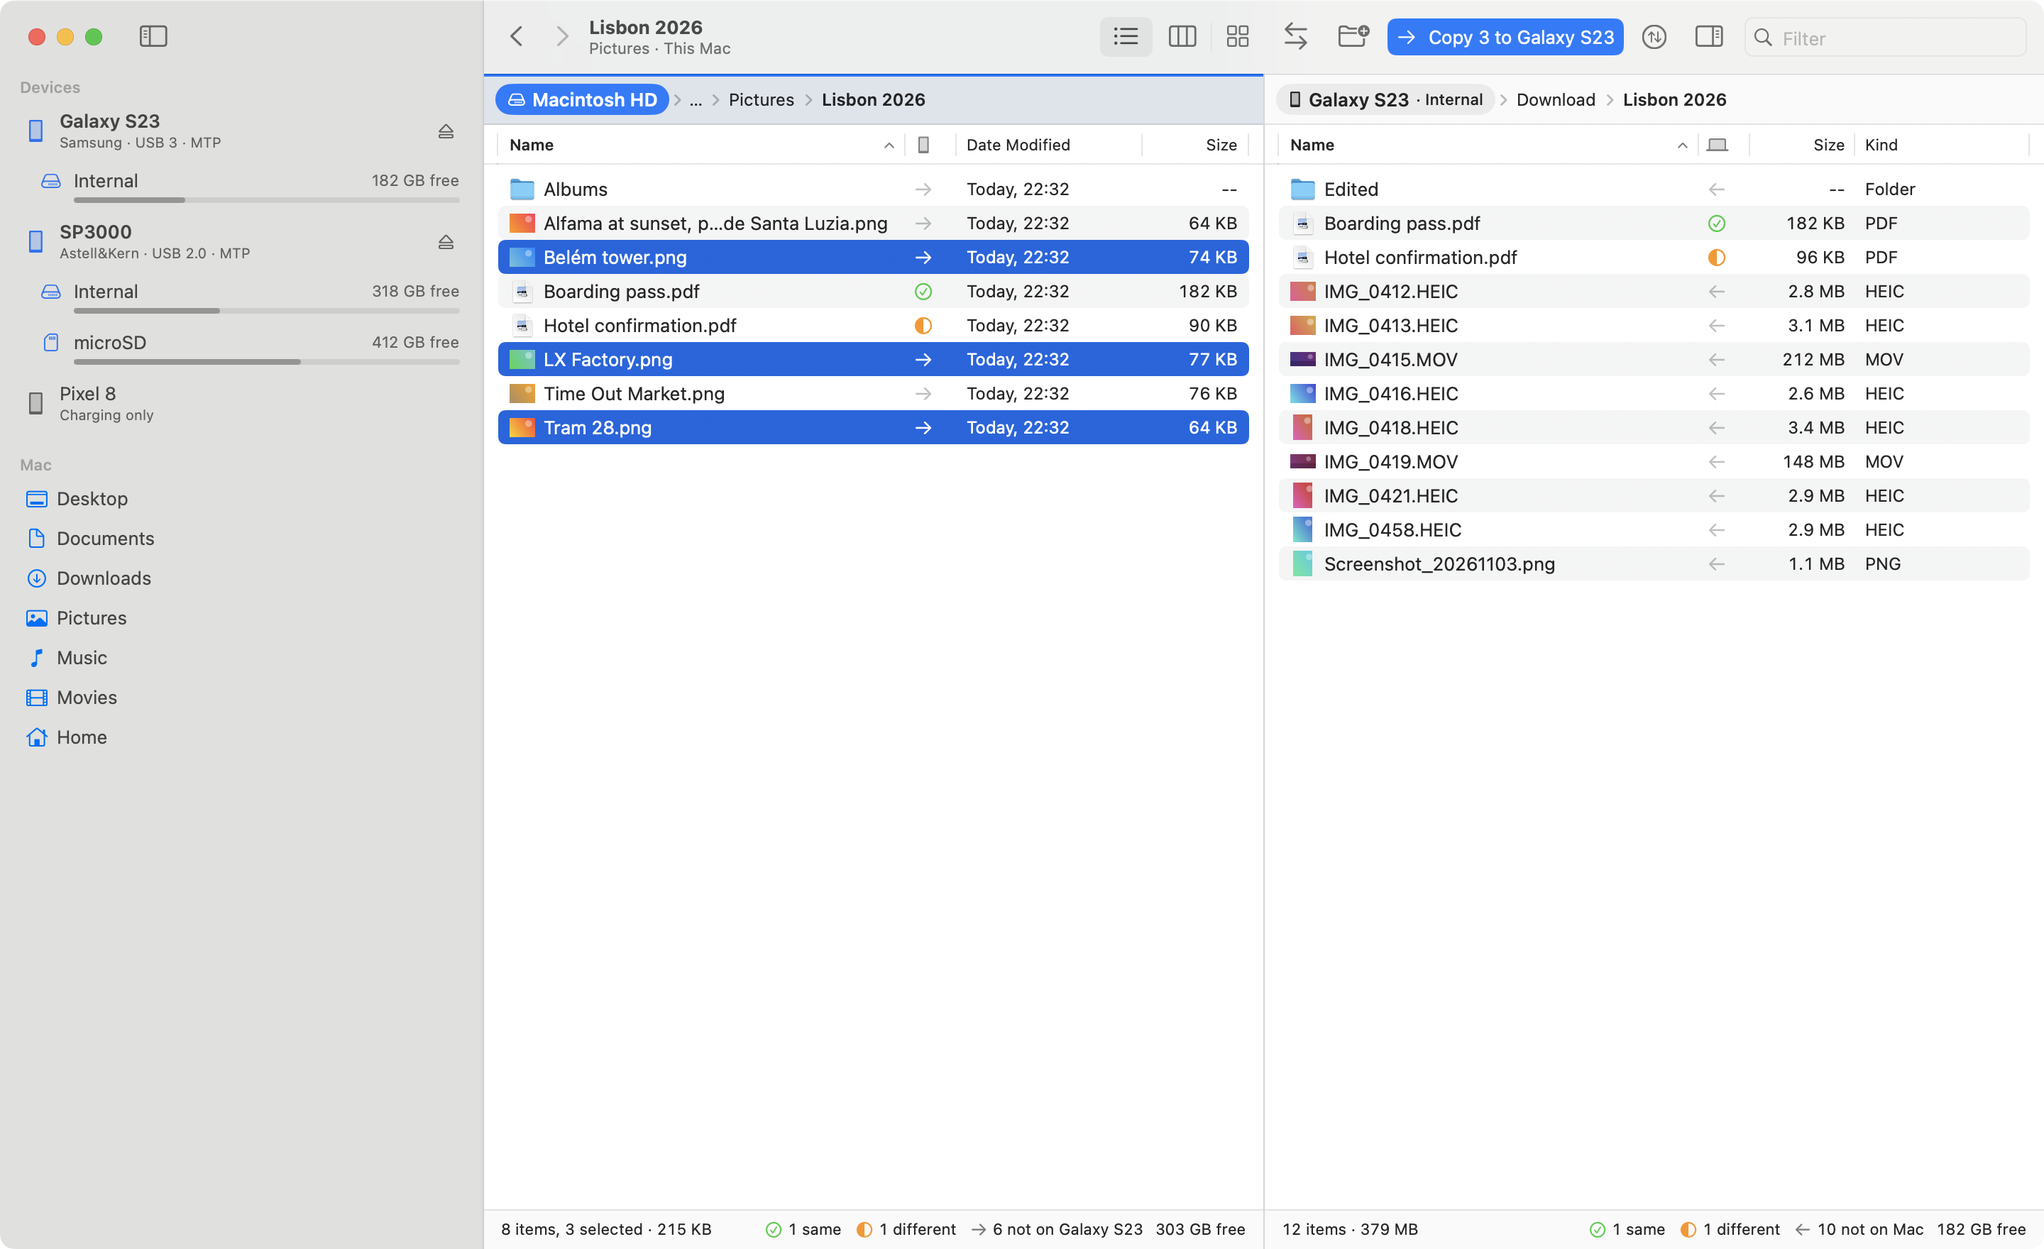
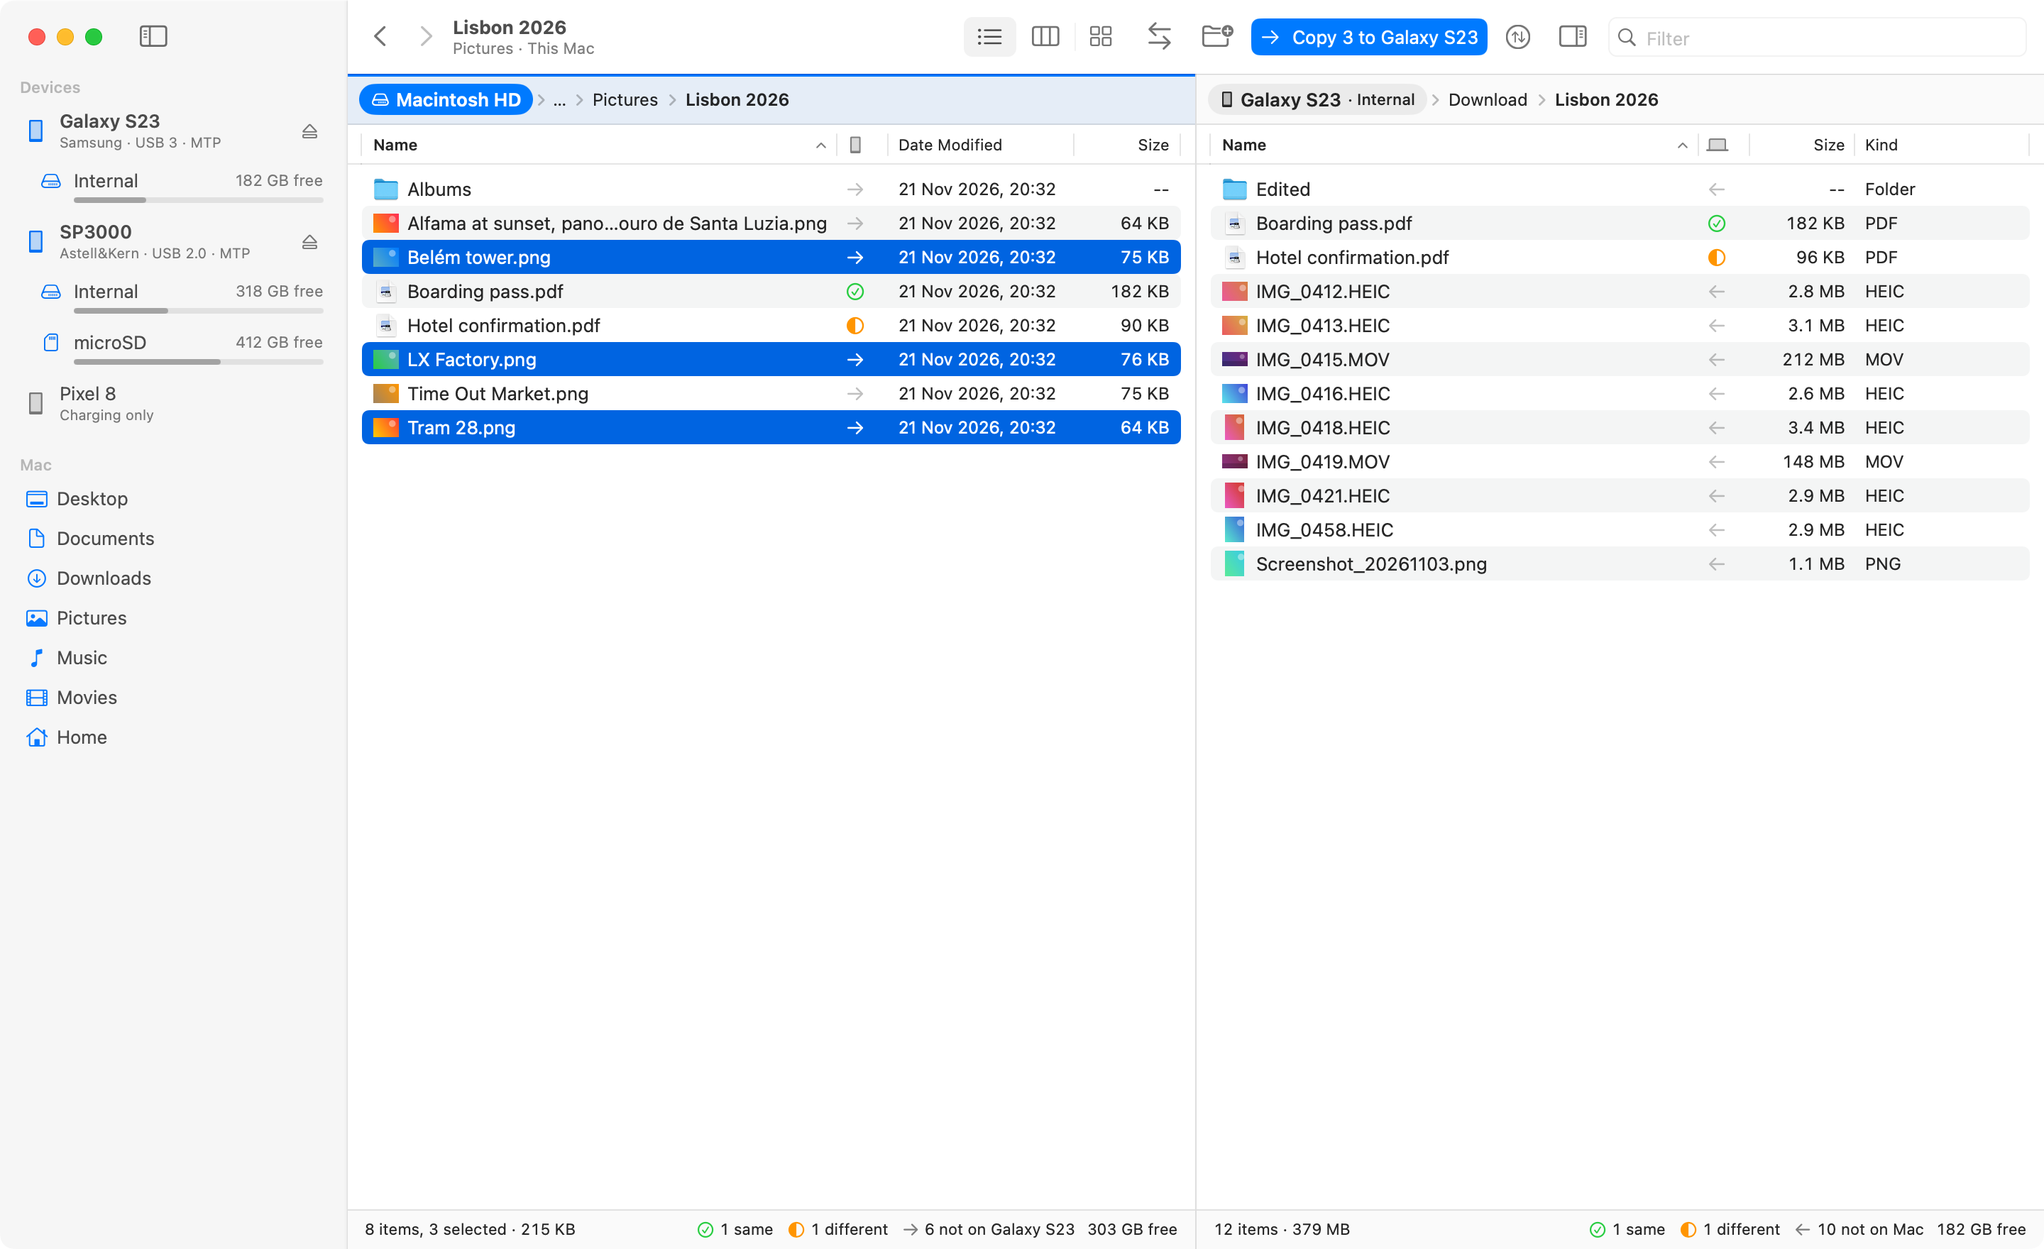
Keep the README screenshots current: CI renders them and commits the ones that changed
The Screenshots workflow renders the app's screens on a 2x virtual display after app changes land on main (or by hand) and commits the PNGs whose pixels changed, from a separate job that never runs the build. The screens are pinned (locale, time zone, demo clock, free space, a transfer on simulated time, sRGB), so a run on unchanged code commits nothing. Reviewed and tested in #5.

Changed region(s): [[0.125, 0.0, 0.8438, 1.0]]

diff --git a/apps/macos/ReMTP/Support/DebugSnapshots.swift b/apps/macos/ReMTP/Support/DebugSnapshots.swift
@@ -460,6 +460,14 @@ enum DebugSnapshots {
         let folder = URL(fileURLWithPath: macPath, isDirectory: true).standardizedFileURL
         try? FileManager.default.createDirectory(at: folder, withIntermediateDirectories: true)
         writeViewSamples(into: folder)
+        // The same text on every run: sample files dated by the demo's clock (pinned by design/app-shots.sh)
+        // and a fixed free space on the Mac.
+        let sampleDate = Date(timeIntervalSince1970: TimeInterval(DemoLibrary.now - 7_200))
+        for name in (try? FileManager.default.contentsOfDirectory(atPath: folder.path)) ?? [] {
+            try? FileManager.default.setAttributes([.modificationDate: sampleDate],
+                                                   ofItemAtPath: folder.appendingPathComponent(name).path)
+        }
+        LocalFileSystem.pinnedAvailableCapacity = 303_000_000_000
         let galaxy = DemoDeviceService.galaxyID, sp3000 = DemoDeviceService.sp3000ID
         let storage: UInt32 = 0x0001_0001
         func device(_ id: String, _ path: String) -> PaneLocation {
@@ -477,7 +485,18 @@ enum DebugSnapshots {
                 writeComposited(window, to: out.appendingPathComponent("\(name)-\(suffix).png"))
             }
         }
+        // A 1× screen, like a CI runner's 1024 × 768, can't take these shots. The Screenshots workflow adds a 2×
+        // virtual display; the window goes to the sharpest screen.
+        if let sharpest = NSScreen.screens.max(by: { $0.backingScaleFactor < $1.backingScaleFactor }),
+           sharpest.backingScaleFactor > window.backingScaleFactor {
+            window.setFrameTopLeftPoint(NSPoint(x: sharpest.visibleFrame.minX + 24, y: sharpest.visibleFrame.maxY - 24))
+            await wait(0.5)
+        }
         window.setContentSize(NSSize(width: 1440, height: 880))
+        await wait(0.3)
+        let contentSize = window.contentRect(forFrameRect: window.frame).size
+        check("Screens are shot at 2× in a 1440 × 880 window (\(window.backingScaleFactor)×, \(contentSize))",
+              window.backingScaleFactor == 2 && contentSize == NSSize(width: 1440, height: 880))
 
         // Main window: the same trip on both sides, partly copied already; three pictures selected on the Mac.
         app.showStorage(deviceID: galaxy, storageID: storage)
@@ -540,12 +559,17 @@ enum DebugSnapshots {
         _ = await until(3) { app.devicePaneBrowsable && app.devicePane.items.count > 20 }
         app.activate(.device, focus: true)
         app.devicePane.selectAndReveal(Set(app.devicePane.items.map(\.name)), scrollTo: app.devicePane.items.first?.name)
+        // On simulated time, held at the same point every run, so the numbers and the graph repeat.
+        let hold: UInt64 = 470_000_000
+        DemoTransfer.screenshotHold = hold
         app.copySelection(from: app.devicePane)
-        _ = await until(5) { (app.transfers.running?.progress?.filesDone ?? 0) > 8 }
+        let held = await until(15) { (app.transfers.running?.progress?.bytesDone ?? 0) >= hold }
+        check("The copy holds after \(hold) bytes for the transfers screen", held)
         app.transfers.showDrawer()
         await wait(2.5)
         await screen("03-transfers")
         app.transfers.cancelAll()
+        DemoTransfer.screenshotHold = nil
         NSApp.appearance = nil
         await wait(0.5)
     }
@@ -565,7 +589,17 @@ enum DebugSnapshots {
             print("INFO no composited capture for \(url.lastPathComponent): drawn by the app instead (sidebar icons lose their tint)")
             return write(window, to: url)
         }
-        try? NSBitmapImageRep(cgImage: image).representation(using: .png, properties: [:])?.write(to: url)
+        try? NSBitmapImageRep(cgImage: sRGB(image)).representation(using: .png, properties: [:])?.write(to: url)
+    }
+
+    /// The image converted to sRGB, the profile browsers assume. The display's own profile would be embedded
+    /// otherwise, and a virtual display (CI's) gets a new one, dated, every run: new PNG bytes for the same pixels.
+    private static func sRGB(_ image: CGImage) -> CGImage {
+        guard let space = CGColorSpace(name: CGColorSpace.sRGB),
+              let context = CGContext(data: nil, width: image.width, height: image.height, bitsPerComponent: 8, bytesPerRow: 0,
+                                      space: space, bitmapInfo: CGImageAlphaInfo.premultipliedLast.rawValue) else { return image }
+        context.draw(image, in: CGRect(x: 0, y: 0, width: image.width, height: image.height))
+        return context.makeImage() ?? image
     }
 
     // MARK: Fixture folder

diff --git a/apps/macos/ReMTP/Service/DemoTransfer.swift b/apps/macos/ReMTP/Service/DemoTransfer.swift
@@ -71,7 +71,18 @@ final class DemoTransfer: TransferControl, @unchecked Sendable {
 
     // MARK: Run
 
-    private var now: TimeInterval { Date().timeIntervalSinceReferenceDate }
+    /// For the documentation screens: when set, copies run on simulated time (no sleeping, so speeds and the
+    /// graph don't depend on how busy the Mac is) and hold, still running, once this many bytes have moved,
+    /// until cancelled. Read when a copy is created.
+    nonisolated(unsafe) static var screenshotHold: UInt64?
+    private let hold = DemoTransfer.screenshotHold
+    private var simulatedTime: TimeInterval = 0
+
+    private var now: TimeInterval { hold == nil ? Date().timeIntervalSinceReferenceDate : simulatedTime }
+
+    private func pass(_ seconds: TimeInterval) {
+        if hold == nil { Thread.sleep(forTimeInterval: seconds) } else { simulatedTime += seconds }
+    }
 
     private var isCancelled: Bool { cond.lock(); defer { cond.unlock() }; return cancelled }
 
@@ -360,7 +371,7 @@ final class DemoTransfer: TransferControl, @unchecked Sendable {
         guard let device else { return false }
         // Idle between files: the next file is already read ahead, so this stays tiny.
         let idle = 0.002 + Double(DemoLibrary.hash(file.source) % 30) / 10_000
-        Thread.sleep(forTimeInterval: idle)
+        pass(idle)
         idleMs.append(idle * 1_000)
 
         let fileStart = now
@@ -374,14 +385,19 @@ final class DemoTransfer: TransferControl, @unchecked Sendable {
             let wobble = 1 + 0.025 * sin(t * 1.7) + 0.02 * sin(t * 0.43) + 0.01 * cos(t * 2.9)
             let rate = device.bytesPerSecond * wobble * (job.direction == .fromDevice ? 1.08 : 1)
             let chunk = min(file.size - currentDone, UInt64(rate * 0.05))
-            Thread.sleep(forTimeInterval: Double(chunk) / rate)
+            pass(Double(chunk) / rate)
             currentDone += chunk
             bytesDone += chunk
             emit(force: false)
+            if let hold, bytesDone >= hold {
+                emit(force: true)
+                while !isCancelled { Thread.sleep(forTimeInterval: 0.1) }
+                return false
+            }
         }
         // Device wait: last chunk handed over → the device answers (media scan on Android).
         let wait = (job.direction == .toDevice ? device.deviceWaitMs : 6) * (0.85 + Double(DemoLibrary.hash(name) % 30) / 100)
-        Thread.sleep(forTimeInterval: wait / 1_000)
+        pass(wait / 1_000)
         waitMs.append(wait)
 
         do {

diff --git a/apps/macos/ReMTP/Model/LocalFileSystem.swift b/apps/macos/ReMTP/Model/LocalFileSystem.swift
@@ -20,7 +20,15 @@ enum LocalFileSystem {
                         created: values?.creationDate, url: url, isHidden: values?.isHidden ?? false)
     }
 
+    #if DEBUG
+    /// Shown instead of the Mac's real free space by the documentation screens, where it would differ per run.
+    nonisolated(unsafe) static var pinnedAvailableCapacity: Int64?
+    #endif
+
     static func availableCapacity(_ url: URL) -> Int64? {
+        #if DEBUG
+        if let pinnedAvailableCapacity { return pinnedAvailableCapacity }
+        #endif
         let values = try? url.resourceValues(forKeys: [.volumeAvailableCapacityForImportantUsageKey, .volumeAvailableCapacityKey])
         if let important = values?.volumeAvailableCapacityForImportantUsage, important > 0 { return important }
         return values?.volumeAvailableCapacity.map(Int64.init)

diff --git a/apps/macos/ReMTP/Service/DemoLibrary.swift b/apps/macos/ReMTP/Service/DemoLibrary.swift
@@ -46,7 +46,10 @@ final class DemoNode {
 }
 
 enum DemoLibrary {
-    static let now = Int64(Date().timeIntervalSince1970)
+    /// The demo's "now": file dates and camera file names count back from it. `REMTP_DEMO_NOW` (seconds since
+    /// 1970) pins it, so the documentation screens (design/app-shots.sh) show the same files on every run.
+    static let now = ProcessInfo.processInfo.environment["REMTP_DEMO_NOW"].flatMap { Int64($0) }
+        ?? Int64(Date().timeIntervalSince1970)
 
     static let MB: UInt64 = 1_000_000
     static let GB: UInt64 = 1_000_000_000

diff --git a/scripts/ci/virtual-display.m b/scripts/ci/virtual-display.m
@@ -1,0 +1,112 @@
+// Adds a 2x ("Retina") virtual display for as long as it runs. GitHub's macOS runners have one 1024 x 768
+// screen at 1x, too small and too coarse for the README's screenshots (design/app-shots.sh). CI only; it uses
+// CoreGraphics' private CGVirtualDisplay classes, as DeskPad and BetterDisplay do, and is never part of the app.
+//
+//   clang -fobjc-arc -framework Foundation -framework CoreGraphics scripts/ci/virtual-display.m -o virtual-display
+//   ./virtual-display 1600 1000 &     # size in points; prints "ready ..." once the 2x mode is set
+#import <CoreGraphics/CoreGraphics.h>
+#import <Foundation/Foundation.h>
+#import <unistd.h>
+
+@interface CGVirtualDisplayDescriptor : NSObject
+@property(retain, nonatomic) NSString *name;
+@property(nonatomic) unsigned int maxPixelsWide;
+@property(nonatomic) unsigned int maxPixelsHigh;
+@property(nonatomic) CGSize sizeInMillimeters;
+@property(nonatomic) unsigned int productID;
+@property(nonatomic) unsigned int vendorID;
+@property(nonatomic) unsigned int serialNum;
+@property(copy, nonatomic) void (^terminationHandler)(id, id);
+- (void)setDispatchQueue:(dispatch_queue_t)queue;
+@end
+
+@interface CGVirtualDisplayMode : NSObject
+- (instancetype)initWithWidth:(NSUInteger)width height:(NSUInteger)height refreshRate:(double)refreshRate;
+@end
+
+@interface CGVirtualDisplaySettings : NSObject
+@property(retain, nonatomic) NSArray *modes;
+@property(nonatomic) unsigned int hiDPI;
+@end
+
+@interface CGVirtualDisplay : NSObject
+@property(readonly, nonatomic) CGDirectDisplayID displayID;
+- (instancetype)initWithDescriptor:(CGVirtualDisplayDescriptor *)descriptor;
+- (BOOL)applySettings:(CGVirtualDisplaySettings *)settings;
+@end
+
+static void fail(NSString *message) {
+    fprintf(stderr, "virtual-display: %s\n", message.UTF8String);
+    exit(1);
+}
+
+int main(int argc, const char *argv[]) {
+    @autoreleasepool {
+        if (argc != 3) fail(@"usage: virtual-display <width> <height> (points)");
+        size_t width = (size_t)atoi(argv[1]), height = (size_t)atoi(argv[2]);
+        if (width < 640 || height < 480) fail(@"the size is in points and at least 640 x 480");
+        if (!NSClassFromString(@"CGVirtualDisplay")) fail(@"CGVirtualDisplay isn't available on this macOS");
+
+        CGVirtualDisplayDescriptor *descriptor = [[NSClassFromString(@"CGVirtualDisplayDescriptor") alloc] init];
+        [descriptor setDispatchQueue:dispatch_queue_create("virtual-display", DISPATCH_QUEUE_SERIAL)];
+        descriptor.name = @"Screenshots";
+        descriptor.maxPixelsWide = (unsigned int)(width * 2);
+        descriptor.maxPixelsHigh = (unsigned int)(height * 2);
+        descriptor.sizeInMillimeters = CGSizeMake(width * 0.23, height * 0.23);  // about 220 pixels per inch
+        descriptor.vendorID = 0xEEEE;
+        descriptor.productID = 0x1234;
+        descriptor.serialNum = 1;
+        descriptor.terminationHandler = ^(__unused id a, __unused id b) { fail(@"the display went away"); };
+
+        CGVirtualDisplay *display = [[NSClassFromString(@"CGVirtualDisplay") alloc] initWithDescriptor:descriptor];
+        if (!display || display.displayID == 0) fail(@"couldn't create the display");
+
+        // Offered both in pixels and in points: either way the system lists a width x height mode at 2x.
+        CGVirtualDisplaySettings *settings = [[NSClassFromString(@"CGVirtualDisplaySettings") alloc] init];
+        settings.hiDPI = 1;
+        Class modeClass = NSClassFromString(@"CGVirtualDisplayMode");
+        settings.modes = @[
+            [[modeClass alloc] initWithWidth:width * 2 height:height * 2 refreshRate:60],
+            [[modeClass alloc] initWithWidth:width height:height refreshRate:60],
+        ];
+        if (![display applySettings:settings]) fail(@"couldn't apply the display's modes");
+
+        CGDirectDisplayID displayID = display.displayID;
+        NSDictionary *options = @{(__bridge NSString *)kCGDisplayShowDuplicateLowResolutionModes: @YES};
+        CGDisplayModeRef wanted = NULL;
+        for (int attempt = 0; attempt < 50 && !wanted; attempt++) {
+            usleep(100000);
+            CFArrayRef modes = CGDisplayCopyAllDisplayModes(displayID, (__bridge CFDictionaryRef)options);
+            for (CFIndex i = 0; modes && i < CFArrayGetCount(modes); i++) {
+                CGDisplayModeRef mode = (CGDisplayModeRef)CFArrayGetValueAtIndex(modes, i);
+                if (attempt == 0) {
+                    printf("mode %zu x %zu (%zu x %zu pixels)\n", CGDisplayModeGetWidth(mode), CGDisplayModeGetHeight(mode),
+                           CGDisplayModeGetPixelWidth(mode), CGDisplayModeGetPixelHeight(mode));
+                }
+                if (CGDisplayModeGetWidth(mode) == width && CGDisplayModeGetHeight(mode) == height
+                    && CGDisplayModeGetPixelWidth(mode) == width * 2) {
+                    wanted = CGDisplayModeRetain(mode);
+                    break;
+                }
+            }
+            if (modes) CFRelease(modes);
+        }
+        if (!wanted) fail([NSString stringWithFormat:@"no %zu x %zu mode at 2x", width, height]);
+
+        CGDisplayConfigRef config;
+        if (CGBeginDisplayConfiguration(&config) != kCGErrorSuccess
+            || CGConfigureDisplayWithDisplayMode(config, displayID, wanted, NULL) != kCGErrorSuccess
+            || CGCompleteDisplayConfiguration(config, kCGConfigureForSession) != kCGErrorSuccess) {
+            fail(@"couldn't switch the display to its 2x mode");
+        }
+        CGDisplayModeRelease(wanted);
+        usleep(500000);
+        CGDisplayModeRef current = CGDisplayCopyDisplayMode(displayID);
+        printf("ready display %u: %zu x %zu (%zu x %zu pixels)\n", displayID, CGDisplayModeGetWidth(current),
+               CGDisplayModeGetHeight(current), CGDisplayModeGetPixelWidth(current), CGDisplayModeGetPixelHeight(current));
+        CGDisplayModeRelease(current);
+        fflush(stdout);
+        dispatch_main();  // keeps the display until the process is killed
+    }
+    return 0;
+}

diff --git a/apps/macos/README.md b/apps/macos/README.md
@@ -102,6 +102,10 @@ show (main window, inspector, device access, transfers; light and dark). Those s
 show the app as it ships: no Sync (toolbar, Transfer menu, sidebar pairs), no DEMO badge, and the home folder
 labelled "Home" instead of the account name (`AppModel.presentsAsShipping`, Debug builds only).
 `design/app-shots.sh [path/to/ReMTP.app]` runs that and copies exactly the canonical set,
-`design/screenshots/{01-main,03-transfers,05-inspector,06-access}-{light,dark}.png`; run it after changing how
-those screens look. Mockups of screens that aren't built yet (sync, Windows) are rendered by `design/render.sh`
+`design/screenshots/{01-main,03-transfers,05-inspector,06-access}-{light,dark}.png`. The screens are pinned so
+that a run only changes a PNG when the app looks different: British English dates, Zurich time and the demo's
+clock (`REMTP_DEMO_NOW`), a fixed free space on the Mac, and a copy on simulated time that holds at the same
+byte. They need a 2x screen in a window of 1440 × 880 points, or they fail. The "Screenshots" workflow runs the
+script after app changes land on main, on a 2x virtual display (`scripts/ci/virtual-display.m`), and commits
+the PNGs that changed. Mockups of screens that aren't built yet (sync, Windows) are rendered by `design/render.sh`
 to `design/mockup/renders/`, apart from the app's own shots.

diff --git a/AGENTS.md b/AGENTS.md
@@ -19,8 +19,9 @@ Read `docs/DESIGN.md` (product), `docs/ARCHITECTURE.md` (code layout and the FFI
 - License notices: `scripts/third-party-licenses.py --package remtp-ffi --output /tmp/licenses.txt` (or
   `--package remtp-cli`); `scripts/ci/build-macos.sh` generates and bundles them.
 - Screenshots: `design/app-shots.sh` writes the app's own screens (main, transfers, inspector, access) to
-  `design/screenshots/` from a Debug build with the demo backend; the manual "Screenshots" workflow does the
-  same in CI and uploads them as an artifact. `design/render.sh` renders the mockups of what isn't built yet
+  `design/screenshots/` from a Debug build with the demo backend (needs a 2x screen). The "Screenshots" workflow
+  does the same on CI, on a 2x virtual display (`scripts/ci/virtual-display.m`), after app changes land on main
+  (or by hand) and commits the PNGs when a screen changed; don't commit them by hand. `design/render.sh` renders the mockups of what isn't built yet
   (sync, Windows) from `design/mockup/` to `design/mockup/renders/` (headless Chrome).
 
 ## Rules

diff --git a/CONTRIBUTING.md b/CONTRIBUTING.md
@@ -55,8 +55,9 @@ The app talks to the Rust core only through `remtp-ffi`. If you change that API,
 - CI must pass: Rust formatting, clippy with warnings as errors and tests on macOS (arm64) and Windows
   (the core stays cross-platform); the macOS app build for arm64 and Intel; and the app's self-check on
   arm64, which fails on any `FAIL` line.
-- Keep UI changes consistent with the existing screens in `design/` and attach a screenshot. The manual
-  "Screenshots" workflow in GitHub Actions builds the app and uploads fresh screenshots as an artifact.
+- Keep UI changes consistent with the existing screens in `design/` and attach a screenshot. Leave
+  `design/screenshots/` alone: after a change to the app lands on main, the "Screenshots" workflow renders
+  those screens again and commits the ones that changed.
 - Commit messages: imperative mood, focused on why ("Avoid re-listing folders after each upload").
 
 ## Project layout
